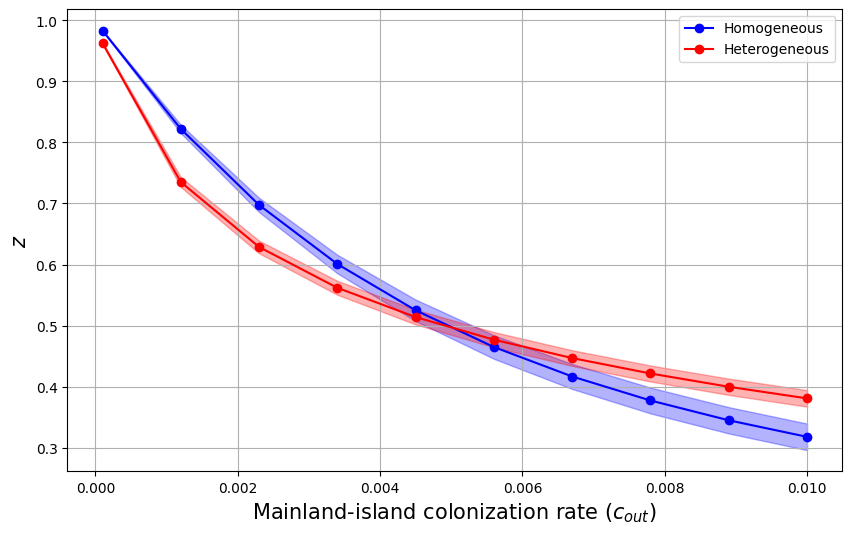
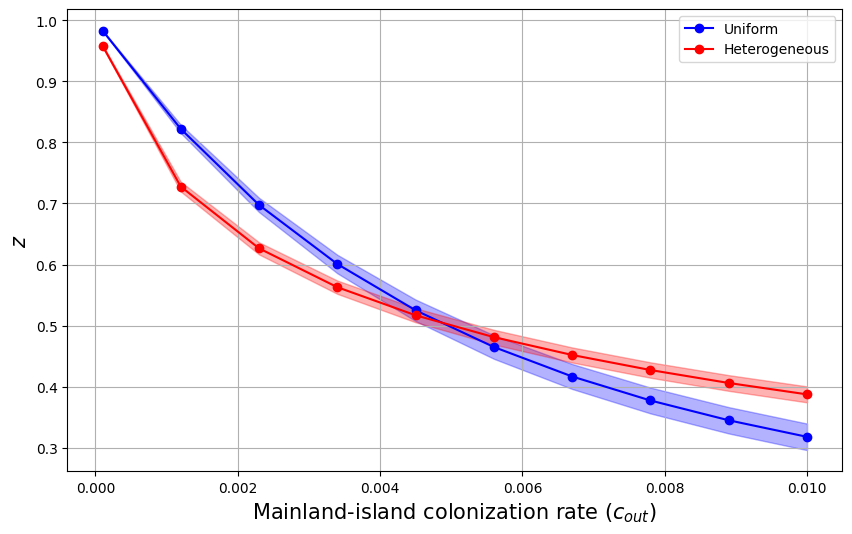
Update

diff --git a/Code/Figure4.py b/Code/Figure4.py
@@ -59,7 +59,7 @@ for theta in theta_values:
 # Plot z as a function of c_out for both theta values with confidence intervals
 plt.figure(figsize=(10, 6))
 colors = ['blue', 'red']
-labels = ['Homogeneous', 'Heterogeneous']
+labels = ['Uniform', 'Heterogeneous']
 for i, theta in enumerate(theta_values):
     plt.plot(c_out_values, z_values_dict[theta], marker='o', color=colors[i], label=rf'{labels[i]}')
     
